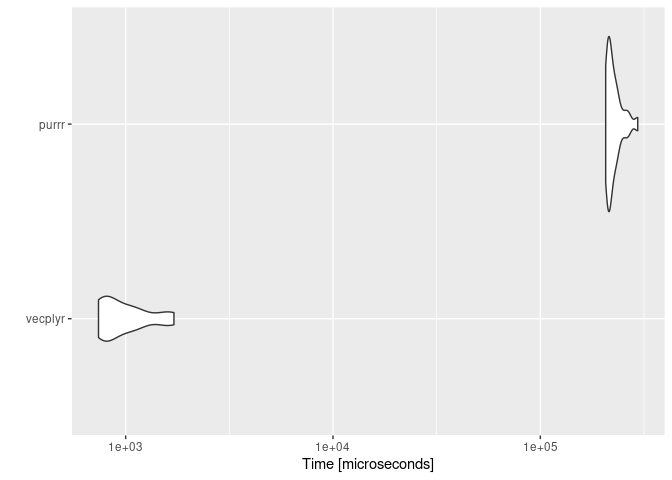
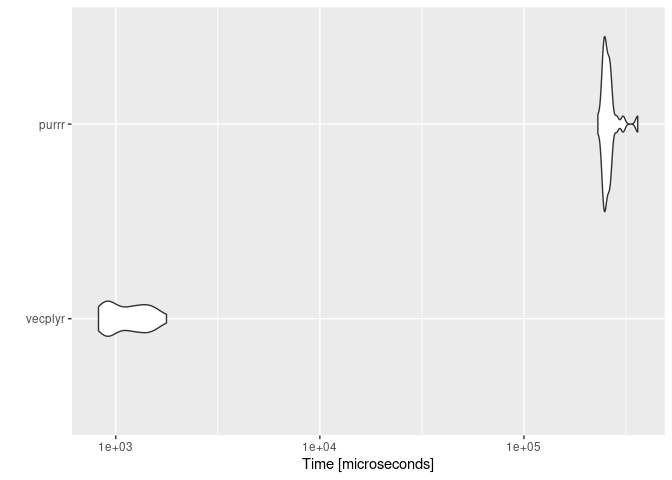
add purrr formulas

diff --git a/README.md b/README.md
@@ -36,6 +36,7 @@ want to:
 -   keep only the even numbers of x;
 -   add 1 to all numbers of x;
 -   multiply by -1 the numbers less than 25.
+-   sum the result
 
 ``` r
 library(vecplyr)
@@ -46,9 +47,17 @@ x = 1:50
 x %>% 
   v_filter(\(x) x %% 2 == 0) %>% # keep the even
   v_mutate(\(x) x+1) %>% # sum 1
-  v_mutate(\(x) -x, \(x) x < 25) # multiply by -1 only those that satisfy x < 25
-#>  [1]  -3  -5  -7  -9 -11 -13 -15 -17 -19 -21 -23  25  27  29  31  33  35  37  39
-#> [20]  41  43  45  47  49  51
+  v_mutate(\(x) -x, \(x) x < 25) %>% # multiply by -1 only those that satisfy x < 25 
+  sum()
+#> [1] 389
+
+# or using purrr formulas
+x %>% 
+  v_filter(~ .x %% 2 == 0) %>% # keep the even
+  v_mutate(~ .x+1) %>% # sum 1
+  v_mutate(~ -.x, ~ .x < 25) %>% # multiply by -1 only those that satisfy x < 25
+  sum()
+#> [1] 389
 
 # base R approach
 y = x[x %% 2 == 0]
@@ -56,9 +65,8 @@ z = y + 1
 w = z
 id = w < 25
 w[id] = - w[id]
-w
-#>  [1]  -3  -5  -7  -9 -11 -13 -15 -17 -19 -21 -23  25  27  29  31  33  35  37  39
-#> [20]  41  43  45  47  49  51
+sum(w)
+#> [1] 389
 ```
 
 ## Examples
@@ -112,10 +120,10 @@ x = 1:1e5
 
 mbm = microbenchmark::microbenchmark(
   vecplyr = {
-    x %>% v_filter(\(x) x^2 <= 5000)
+    x %>% v_filter(~ .x^2 <= 5000)
   }
   ,purrr = {
-    x %>% purrr::keep(\(x) x^2 <= 5000)
+    x %>% purrr::keep(~ .x^2 <= 5000)
   }
 
   ,times = 25L
@@ -123,9 +131,12 @@ mbm = microbenchmark::microbenchmark(
 
 mbm
 #> Unit: microseconds
-#>     expr        min         lq        mean     median         uq      max neval
-#>  vecplyr    367.902    409.404    561.0299    433.354    670.785   1169.7    25
-#>    purrr 220927.542 237861.875 280842.1641 263993.494 285044.534 494668.9    25
+#>     expr        min         lq        mean     median        uq        max
+#>  vecplyr    442.441    502.239    628.3806    672.757    723.61    826.684
+#>    purrr 250559.657 257176.566 279681.2356 263948.738 288398.04 426075.225
+#>  neval
+#>     25
+#>     25
 ```
 
 ``` r
@@ -140,10 +151,10 @@ x = 1:1e5
 
 mbm2 = microbenchmark::microbenchmark(
   vecplyr = {
-    x %>% v_mutate(\(x) x + 2, \(x) x <= 10000)
+    x %>% v_mutate(~ .x + 2, ~ .x <= 10000)
   }
   ,purrr = {
-    x %>% purrr::modify_if(.f = \(x) x + 2L, .p = \(x) x <= 10000)
+    x %>% purrr::modify_if(.f = ~ .x + 2L, .p = ~.x <= 10000)
   }
 
   ,times = 25L
@@ -152,8 +163,8 @@ mbm2 = microbenchmark::microbenchmark(
 mbm2
 #> Unit: microseconds
 #>     expr        min         lq       mean     median         uq        max
-#>  vecplyr    739.582    782.288   1013.698    886.655   1115.317   1709.441
-#>    purrr 206635.941 213091.804 226684.704 217007.135 233890.232 294960.861
+#>  vecplyr    822.884    913.926   1166.179   1176.038   1450.676   1772.058
+#>    purrr 230388.587 247089.104 260623.472 252050.096 263392.000 361180.861
 #>  neval
 #>     25
 #>     25
